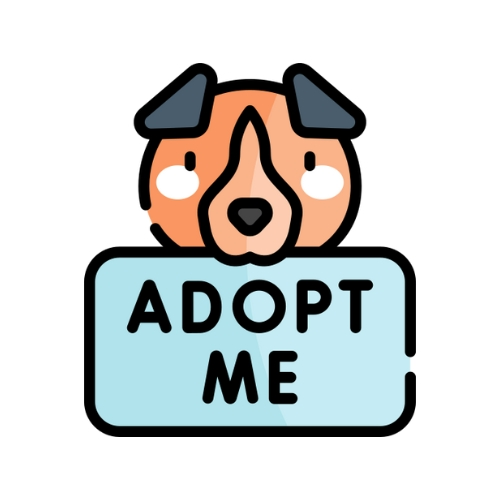
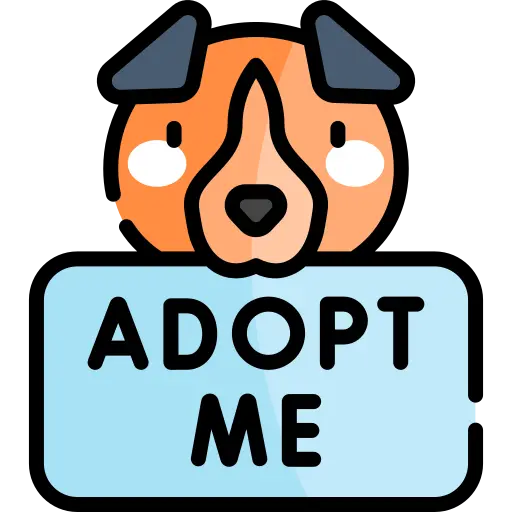
chore: update navbar styles and hero section image
- Updated navbar styles for better responsiveness and visual consistency.
- Updated home section image for adopt me.

diff --git a/pawtect-frontend/src/app/components/navbar/navbar.component.scss b/pawtect-frontend/src/app/components/navbar/navbar.component.scss
@@ -74,7 +74,7 @@ $transition: 0.5s ease-in-out;
     flex: 0 1 auto;
 
     img {
-      max-width: 4rem;
+      max-width: 3rem;
       height: auto;
     }
   }
@@ -153,7 +153,9 @@ $transition: 0.5s ease-in-out;
   }
 
   @include tablet {
-    padding: 1.2rem 2rem;
+    &__container {
+      padding: $spacing-sm $spacing-md;
+    }
 
     &__toggle {
       display: block;
@@ -194,26 +196,32 @@ $transition: 0.5s ease-in-out;
       }
     }
 
+    &__logo {
+      img {
+        max-width: 3.5rem;
+        height: auto;
+      }
+    }
+
     &__close {
       display: block;
     }
   }
 
   @include desktop {
-    padding: $spacing-lg $spacing-xl;
-
     &__container {
       max-width: 90rem;
       display: flex;
       justify-content: space-between;
       align-items: center;
+      padding: $spacing-sm $spacing-md;
     }
 
     &__logo {
       flex: 0 1 auto;
 
       img {
-        max-width: 6rem;
+        max-width: 4rem;
       }
     }
 
